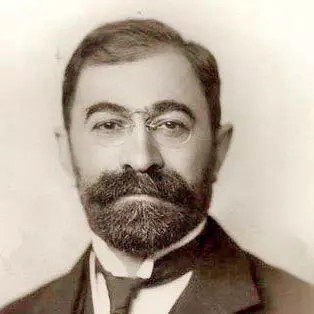
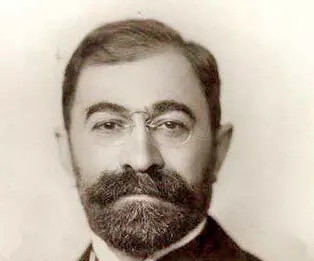
improve images

diff --git a/src/views/Documents.vue b/src/views/Documents.vue
@@ -81,7 +81,7 @@ $document-gap: 50px;
   width: 100%;
   height: 350px;
   object-fit: cover;
-  object-position: center top;
+  object-position: center;
 }
 
 .document-text {
